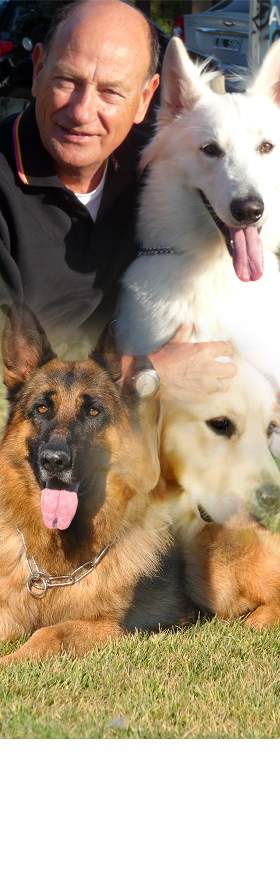
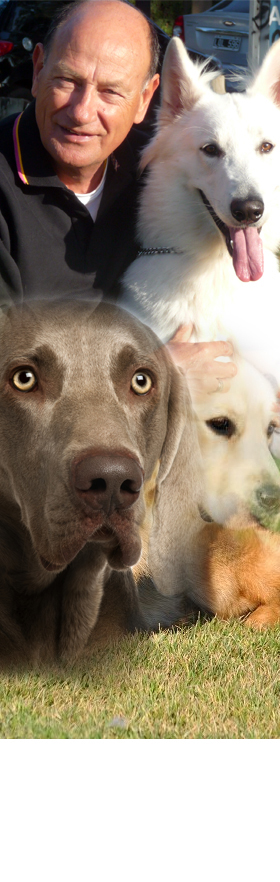
Correccion solicitadas por el cliente

Changed region(s): [[0.0, 0.3367, 0.7429, 0.7959]]

diff --git a/css/main.css b/css/main.css
@@ -1,3 +1,3 @@
 @import url("http://fonts.googleapis.com/css?family=Open+Sans");
 @import url("http://fonts.googleapis.com/css?family=Lato");
-*{border:0;margin:0;padding:0}body{font-family:'Open Sans',sans-serif;font-size:16px}figure{margin:0;padding:0}footer{background:#333;height:auto;padding:1.2em 0 1.2em 0;width:100%;}footer a:hover{text-decoration:underline}h1{margin:0;padding:0}h2{font-family:'Lato',sans-serif}header{background:#2da862;height:auto;opacity:.9;width:100%}span{margin:0 10em 0 0}.Boton{border-radius:5px;border:solid 1px #fff;font-size:.9em;-webkit-border-radius:5px;-moz-border-radius:5px;-o-border-radius:5px;-ms-border-radius:5px;margin:0 0 2em 0;padding:1em 0 1em 0;text-align:center;width:17%;}.Boton a{color:#fff;text-decoration:none}.Columnas{height:auto;margin:0 auto;margin-bottom:100px;margin-top:50px;max-width:1200px;text-align:center;width:100%;}.Columnas .Col1{display:inline-block;height:370px;margin:0 .5em 0 .5em;vertical-align:top;width:30%;}.Columnas .Col1 h2{color:#27ae60;font-size:1em;margin:0 0 1em 0}.Columnas .Col1 p{color:#505252;font-size:.9em;line-height:23px;margin:.7em 1em .7em 1em}.Columnas .Col1 a{-webkit-transition:all .5s ease;-moz-transition:all .5s ease;-o-transition:all .5s ease;transition:all .5s ease}.Columnas .Col1 a:hover{-webkit-transform:translate(0,10px);-moz-transform:translate(0,10px);-o-transform:translate(0,10px);-ms-transform:translate(0,10px);transform:translate(0,10px)}.Columnas .Col1 .Ver-mas{margin:2em 0 0 0}.Columnas .Col2{display:inline-block;height:370px;margin:0 .5em 0 .5em;vertical-align:top;width:30%;}.Columnas .Col2 a{-webkit-transition:all .5s ease;-moz-transition:all .5s ease;-o-transition:all .5s ease;transition:all .5s ease}.Columnas .Col2 a:hover{-webkit-transform:translate(0,10px);-moz-transform:translate(0,10px);-o-transform:translate(0,10px);-ms-transform:translate(0,10px);transform:translate(0,10px)}.Columnas .Col2 h2{color:#27ae60;font-size:1em;margin:0 0 2em 0}.Columnas .Col2 p{color:#505252;font-size:.9em;line-height:23px;margin:1em 1em 1em 1em}.Columnas .Col2 .Ver-mas{margin:-.4em 0 0 0}.Columnas .Col3{display:inline-block;height:370px;margin:0 .5em 0 .5em;vertical-align:top;width:30%;}.Columnas .Col3 a{-webkit-transition:all .5s ease;-moz-transition:all .5s ease;-o-transition:all .5s ease;transition:all .5s ease}.Columnas .Col3 a:hover{-webkit-transform:translate(0,10px);-moz-transform:translate(0,10px);-o-transform:translate(0,10px);-ms-transform:translate(0,10px);transform:translate(0,10px)}.Columnas .Col3 h2{color:#27ae60;font-size:1em;margin:0 0 1em 0}.Columnas .Col3 p{color:#505252;font-size:.9em;line-height:23px;margin:.7em 1em 1em 1em}.Columnas .Col3 .Ver-mas{margin:3.5em 0 0 0}a{color:#fff;text-decoration:none;}a .Contacto{border:solid 1px #008000;border-radius:5px;font-size:1.1em;-webkit-border-radius:5px;-moz-border-radius:5px;-o-border-radius:5px;-ms-border-radius:5px;height:auto;padding:1.2em 0 1.2em 0;text-align:center;-webkit-transition:all .5s ease;-moz-transition:all .5s ease;-o-transition:all .5s ease;transition:all .5s ease;width:37%;}a .Contacto ul li{display:inline-block;padding:0 .5em 0 0;vertical-align:middle}a .Contacto:hover{background:#008000;-webkit-transition:all .5s ease;-moz-transition:all .5s ease;-o-transition:all .5s ease;transition:all .5s ease}.contenedor-footer{color:#fff;height:auto;margin:0 auto;max-width:1200px;text-align:right;width:100%;}.contenedor-footer a{color:#fff;text-decoration:none}.contenedor-footer p{font-size:.8em;font-style:normal}.contenedor-perdidos{height:auto;margin:0 auto;max-width:1200px;width:100%;}.contenedor-perdidos a{border:solid 1px #333;border-radius:5px;-webkit-border-radius:5px;-moz-border-radius:5px;-o-border-radius:5px;-ms-border-radius:5px;color:#fff;padding:.5em 1em .5em 1em;text-decoration:none;-webkit-transition:all .5s ease;-moz-transition:all .5s ease;-o-transition:all .5s ease;transition:all .5s ease}.contenedor-perdidos a:hover{background:#333;-webkit-transition:all .5s ease;-moz-transition:all .5s ease;-o-transition:all .5s ease;transition:all .5s ease}.contenedor-perdidos p{margin:1em 0 1.5em 0}.contenedor-perdidos h3{color:#fff;font-size:.9em;font-weight:100;margin-top:12px}.Testimonios{height:auto;margin:0 auto;margin-bottom:50px;margin-top:50px;max-width:1200px;text-align:center;width:100%;}.Testimonios h2{color:#11d062;margin:0 0 20px 0}.Testimonios .col-test1{color:#808080;display:inline-block;font-style:italic;line-height:23px;padding:0 1.5em 0 1.5em;width:25%;}.Testimonios .col-test1 a{color:#11d062;text-decoration:none}.Testimonios .col-test2{color:#808080;display:inline-block;font-style:italic;line-height:23px;padding:0 1.5em 0 1.5em;width:25%;}.Testimonios .col-test2 a{color:#11d062;text-decoration:none}.Testimonios .col-test3{color:#808080;display:inline-block;font-style:italic;line-height:23px;padding:0 1.5em 0 1.5em;width:25%;}.Testimonios .col-test3 a{color:#11d062;text-decoration:none}.Contenido-contactos{height:auto;margin:0 auto;margin-top:2em;max-width:1200px;text-align:center;width:100%;}.Contenido-contactos h2{color:#808080;font-size:1.3em;font-style:italic;margin:1em 0 2.5em 0}.Contenido-contactos ul li{display:inline-block;list-style:none;margin:0 2em 0 2em;padding:0 0 1em 0;vertical-align:top}.Contenido-contactos a{-webkit-transition:all .5s ease;-moz-transition:all .5s ease;-o-transition:all .5s ease;transition:all .5s ease}.Contenido-contactos a:hover{opacity:.8;-webkit-transition:all .5s ease;-moz-transition:all .5s ease;-o-transition:all .5s ease;transition:all .5s ease}.Contenedor{background-image:url("../img/centro.jpg");background-repeat:no-repeat;bbackground-position:center;background-size:cover;height:634px}.Contenedor-menu{height:auto;margin:0 auto;max-width:1200px;padding:.7em 0 .7em 0;width:100%;}.Contenedor-menu ul li{display:inline-block;font-size:.9em;padding:0 0 0 .5em;vertical-align:middle;}.Contenedor-menu ul li a{color:#fff;text-decoration:none;padding:.5em .5em .5em .5em;-webkit-transition:all .5s ease;-moz-transition:all .5s ease;-o-transition:all .5s ease;transition:all .5s ease}.Contenedor-menu ul li a:hover{background:#18663c;padding:.5em .5em .5em .5em;-webkit-transition:all .5s ease;-moz-transition:all .5s ease;-o-transition:all .5s ease;transition:all .5s ease}.Contenedor-menu span{color:#fff}.Contenedor-razas{height:auto;padding:5em 0 0 0;margin:0 auto;margin-top:2.5em;max-width:1200px;width:100%}.Contenido{height:auto;margin:0 auto;margin-bottom:1em;margin-top:2em;max-width:1200px;width:100%;}.Contenido .Col1-cont1{display:inline-block;margin:1.5em 2em 0 0;vertical-align:top;width:auto}.Contenido .Col2-cont2{display:inline-block;margin:2em 0 0 0;vertical-align:top;width:65%;}.Contenido .Col2-cont2 h2{color:#27ae60;font-size:1em}.Contenido .Col2-cont2 p{color:#808080;font-size:.9em;line-height:25px;margin:.5em 0 3em 0}.Contenido .Col2-cont2 .Titulos h2{color:#27ae60;font-size:1em}.Contenido .Col2-cont2 .Titulos ul li{display:inline-block;list-style:none;padding:0 .5em 0 0}.Contenido .VerMas-hojas{margin:-1.9em 0 5em 0;}.Contenido .VerMas-hojas a{text-decoration:none}.Contenido .VerMas-hojas a:hover{opacity:.8}.Contenido .Texto-corto p{margin:.5em 0 1em 0}.Contenido .Cartel-modificado{margin:0 0 5em 0}.Forma{margin:184px 0 0 0;text-align:center}.Generadores{margin:0 auto;margin-top:3em;max-width:1100px;text-align:center;width:100%;}.Generadores h2{color:#808080;font-style:italic;margin:2.5em 0 1.5em 0}.Generadores h3{color:#808080;font-size:.9em;font-style:italic;margin:1em 0 0 0}.Generadores ul li{display:inline-block;list-style:none;vertical-align:top;width:30%;}.Generadores ul li img{border-radius:100%;height:auto;overflow:hidden;max-width:150px;width:100%}.Generadores img:hover{opacity:.7}.Logo{margin:200px 0 0 20px;width:50%;}.Logo img:hover{opacity:.7}.Logo h2{color:#fff;font-weight:100;text-align:left;margin:-.5em 0 .5em .5em}.Logo ul li{display:inline-block;list-style:none;margin:0 0 0 .7em}.Logo-interno{border-bottom:solid 1px #bebfc1;height:auto;margin:0 auto;margin-top:2em;max-width:1200px;padding-bottom:.5em;width:100%}.Todas-lasRazas{height:auto;margin:0 auto;margin-top:4em;max-width:1100px;overflow:hidden;width:100%;}.Todas-lasRazas a{background:#008000;border-radius:3px;color:#fff;font-size:.9em;padding:0 .5em 0 .5em}.Todas-lasRazas a:hover{opacity:.9}.Todas-lasRazas h2{margin:0 0 1em 0}.Todas-lasRazas h3{color:#008000;margin:0 0 .3em 0}.Todas-lasRazas img{height:auto;border-radius:100%;-webkit-border-radius:100%;-moz-border-radius:100%;-o-border-radius:100%;-ms-border-radius:100%;float:left;margin:0 1em 0 1em}.Todas-lasRazas p{font-size:.9em;text-align:justify;line-height:26px;margin:0 0 .5em 0}.Quien-soy{height:auto;margin:0 auto;max-width:1200px;text-align:center;width:100%;}.Quien-soy h2{color:#808080;font-style:italic;margin:0 0 .5em 0}.Quien-soy img{margin:1.5em 0 0 0}.Quien-soy ul li{display:inline-block;list-style:none;margin:.5em 0 .5em 0;padding:0 .5em 0 .5em}.Quien-soy p{color:#808080;font-style:italic;line-height:28px;padding:0 1.5em 0 1.5em}.Perdidos{background-image:url("../img/perdidos.jpg");background-repeat:no-repeat;bbackground-position:center;background-size:cover;height:180px;margin:-70px 0 0 0;}.Perdidos h3{margin:1.5em 0 0 0}.Perdidos p{color:#fff;padding:2em 0 0 0}.Razas{background-image:url("../img/razas.jpg");background-repeat:no-repeat;bbackground-position:center;background-size:cover;height:372px;margin:0 0 70px 0;}.Razas h2{color:#fff;font-size:2em;font-weight:100;padding:2em 0 .5em 0}.Redes-perfil ul li a{text-decoration:none}.Redes-perfil ul li a:hover{opacity:.6}.Contenedor-delasRazas{height:auto;margin:0 0 5em 0}.Seccion{background:#d3dbd7;color:#008000;font-size:.9em;margin:0 auto;margin-top:.1em;max-width:1195px;padding:.3em 0 .3em .3em;width:auto}
+*{border:0;margin:0;padding:0}body{font-family:'Open Sans',sans-serif;font-size:16px}figure{margin:0;padding:0}footer{background:#333;height:auto;padding:1.2em 0 1.2em 0;width:100%;}footer a:hover{text-decoration:underline}h1{margin:0;padding:0}h2{font-family:'Lato',sans-serif}header{background:#2da862;height:auto;opacity:.9;width:100%}span{margin:0 10em 0 0}.Boton{border-radius:5px;border:solid 1px #fff;font-size:.9em;-webkit-border-radius:5px;-moz-border-radius:5px;-o-border-radius:5px;-ms-border-radius:5px;margin:0 0 2em 0;padding:1em 0 1em 0;text-align:center;width:17%;}.Boton a{color:#fff;text-decoration:none}.Columnas{height:auto;margin:0 auto;margin-bottom:100px;margin-top:50px;max-width:1200px;text-align:center;width:100%;}.Columnas .Col1{display:inline-block;height:370px;margin:0 .5em 0 .5em;vertical-align:top;width:30%;}.Columnas .Col1 h2{color:#27ae60;font-size:1em;margin:0 0 1em 0}.Columnas .Col1 p{color:#505252;font-size:.9em;line-height:23px;margin:.7em 1em .7em 1em}.Columnas .Col1 a{-webkit-transition:all .5s ease;-moz-transition:all .5s ease;-o-transition:all .5s ease;transition:all .5s ease}.Columnas .Col1 a:hover{-webkit-transform:translate(0,10px);-moz-transform:translate(0,10px);-o-transform:translate(0,10px);-ms-transform:translate(0,10px);transform:translate(0,10px)}.Columnas .Col1 .Ver-mas{margin:2em 0 0 0}.Columnas .Col2{display:inline-block;height:370px;margin:0 .5em 0 .5em;vertical-align:top;width:30%;}.Columnas .Col2 a{-webkit-transition:all .5s ease;-moz-transition:all .5s ease;-o-transition:all .5s ease;transition:all .5s ease}.Columnas .Col2 a:hover{-webkit-transform:translate(0,10px);-moz-transform:translate(0,10px);-o-transform:translate(0,10px);-ms-transform:translate(0,10px);transform:translate(0,10px)}.Columnas .Col2 h2{color:#27ae60;font-size:1em;margin:0 0 2em 0}.Columnas .Col2 p{color:#505252;font-size:.9em;line-height:23px;margin:1em 1em 1em 1em}.Columnas .Col2 .Ver-mas{margin:-.4em 0 0 0}.Columnas .Col3{display:inline-block;height:370px;margin:0 .5em 0 .5em;vertical-align:top;width:30%;}.Columnas .Col3 a{-webkit-transition:all .5s ease;-moz-transition:all .5s ease;-o-transition:all .5s ease;transition:all .5s ease}.Columnas .Col3 a:hover{-webkit-transform:translate(0,10px);-moz-transform:translate(0,10px);-o-transform:translate(0,10px);-ms-transform:translate(0,10px);transform:translate(0,10px)}.Columnas .Col3 h2{color:#27ae60;font-size:1em;margin:0 0 1em 0}.Columnas .Col3 p{color:#505252;font-size:.9em;line-height:23px;margin:.7em 1em 1em 1em}.Columnas .Col3 .Ver-mas{margin:3.5em 0 0 0}a{color:#fff;text-decoration:none;}a .Contacto{border:solid 1px #008000;border-radius:5px;font-size:1.1em;-webkit-border-radius:5px;-moz-border-radius:5px;-o-border-radius:5px;-ms-border-radius:5px;height:auto;padding:1.2em 0 1.2em 0;text-align:center;-webkit-transition:all .5s ease;-moz-transition:all .5s ease;-o-transition:all .5s ease;transition:all .5s ease;width:37%;}a .Contacto ul li{display:inline-block;padding:0 .5em 0 0;vertical-align:middle}a .Contacto:hover{background:#008000;-webkit-transition:all .5s ease;-moz-transition:all .5s ease;-o-transition:all .5s ease;transition:all .5s ease}.contenedor-footer{color:#fff;height:auto;margin:0 auto;max-width:1200px;text-align:right;width:100%;}.contenedor-footer a{color:#fff;text-decoration:none}.contenedor-footer p{font-size:.8em;font-style:normal}.contenedor-perdidos{height:auto;margin:0 auto;margin-top:7em;max-width:1200px;width:100%;}.contenedor-perdidos a{border:solid 1px #333;border-radius:5px;-webkit-border-radius:5px;-moz-border-radius:5px;-o-border-radius:5px;-ms-border-radius:5px;color:#fff;padding:.5em 1em .5em 1em;text-decoration:none;-webkit-transition:all .5s ease;-moz-transition:all .5s ease;-o-transition:all .5s ease;transition:all .5s ease}.contenedor-perdidos a:hover{background:#333;-webkit-transition:all .5s ease;-moz-transition:all .5s ease;-o-transition:all .5s ease;transition:all .5s ease}.contenedor-perdidos p{margin:1em 0 1.5em 0}.contenedor-perdidos h3{color:#fff;font-size:.9em;font-weight:100;margin-top:12px}.Testimonios{height:auto;margin:0 auto;margin-bottom:50px;margin-top:50px;max-width:1200px;text-align:center;width:100%;}.Testimonios h2{color:#11d062;margin:0 0 20px 0}.Testimonios .col-test1{color:#808080;display:inline-block;font-style:italic;line-height:23px;padding:0 1.5em 0 1.5em;width:25%;}.Testimonios .col-test1 a{color:#11d062;text-decoration:none}.Testimonios .col-test2{color:#808080;display:inline-block;font-style:italic;line-height:23px;padding:0 1.5em 0 1.5em;width:25%;}.Testimonios .col-test2 a{color:#11d062;text-decoration:none}.Testimonios .col-test3{color:#808080;display:inline-block;font-style:italic;line-height:23px;padding:0 1.5em 0 1.5em;width:25%;}.Testimonios .col-test3 a{color:#11d062;text-decoration:none}.Contenido-contactos{height:auto;margin:0 auto;margin-top:2em;max-width:1200px;text-align:center;width:100%;}.Contenido-contactos h2{color:#808080;font-size:1.3em;font-style:italic;margin:1em 0 2.5em 0}.Contenido-contactos ul li{display:inline-block;list-style:none;margin:0 2em 0 2em;padding:0 0 1em 0;vertical-align:top}.Contenido-contactos a{-webkit-transition:all .5s ease;-moz-transition:all .5s ease;-o-transition:all .5s ease;transition:all .5s ease}.Contenido-contactos a:hover{opacity:.8;-webkit-transition:all .5s ease;-moz-transition:all .5s ease;-o-transition:all .5s ease;transition:all .5s ease}.Contenedor{background-image:url("../img/centro.jpg");background-repeat:no-repeat;bbackground-position:center;background-size:cover;height:634px}.Contenedor-menu{height:auto;margin:0 auto;max-width:1200px;padding:.7em 0 .7em 0;width:100%;}.Contenedor-menu ul li{display:inline-block;font-size:.9em;padding:0 0 0 .5em;vertical-align:middle;}.Contenedor-menu ul li a{color:#fff;text-decoration:none;padding:.5em .5em .5em .5em;-webkit-transition:all .5s ease;-moz-transition:all .5s ease;-o-transition:all .5s ease;transition:all .5s ease}.Contenedor-menu ul li a:hover{background:#18663c;padding:.5em .5em .5em .5em;-webkit-transition:all .5s ease;-moz-transition:all .5s ease;-o-transition:all .5s ease;transition:all .5s ease}.Contenedor-menu span{color:#fff}.Contenedor-razas{height:auto;padding:5em 0 0 0;margin:0 auto;margin-top:2.5em;max-width:1200px;width:100%}.Contenido{height:auto;margin:0 auto;margin-bottom:1em;margin-top:2em;max-width:1200px;width:100%;}.Contenido .Col1-cont1{display:inline-block;margin:1.5em 2em 0 0;vertical-align:top;width:auto}.Contenido .Col2-cont2{display:inline-block;margin:2em 0 0 0;vertical-align:top;width:65%;}.Contenido .Col2-cont2 h2{color:#27ae60;font-size:1em}.Contenido .Col2-cont2 p{color:#808080;font-size:.9em;line-height:25px;margin:.5em 0 3em 0}.Contenido .Col2-cont2 .Titulos h2{color:#27ae60;font-size:1em}.Contenido .Col2-cont2 .Titulos ul li{display:inline-block;list-style:none;padding:0 .5em 0 0}.Contenido .VerMas-hojas{margin:-1.9em 0 5em 0;}.Contenido .VerMas-hojas a{text-decoration:none}.Contenido .VerMas-hojas a:hover{opacity:.8}.Contenido .Texto-corto p{margin:.5em 0 1em 0}.Contenido .Cartel-modificado{margin:0 0 5em 0}.Forma{margin:184px 0 0 0;text-align:center}.Generadores{margin:0 auto;margin-top:5em;max-width:1300px;text-align:center;width:100%;}.Generadores h2{color:#808080;font-style:italic;margin:2.5em 0 2em 0}.Generadores h3{color:#808080;font-size:.9em;font-style:italic;margin:1em 0 0 0}.Generadores ul li{display:inline-block;list-style:none;vertical-align:top;width:19%;}.Generadores ul li img{border-radius:100%;height:auto;overflow:hidden;max-width:150px;width:100%}.Generadores img:hover{opacity:.7}.Logo{margin:200px 0 0 20px;width:50%;}.Logo img:hover{opacity:.7}.Logo h2{color:#fff;font-weight:100;text-align:left;margin:-.5em 0 .5em .5em}.Logo ul li{display:inline-block;list-style:none;margin:0 0 0 .7em}.Logo-interno{border-bottom:solid 1px #bebfc1;height:auto;margin:0 auto;margin-top:2em;max-width:1200px;padding-bottom:.5em;width:100%}.Todas-lasRazas{height:auto;margin:0 auto;margin-top:4em;max-width:1100px;overflow:hidden;width:100%;}.Todas-lasRazas a{background:#008000;border-radius:3px;color:#fff;font-size:.9em;padding:0 .5em 0 .5em}.Todas-lasRazas a:hover{opacity:.9}.Todas-lasRazas h2{margin:0 0 1em 0}.Todas-lasRazas h3{color:#008000;margin:0 0 .3em 0}.Todas-lasRazas img{height:auto;border-radius:100%;-webkit-border-radius:100%;-moz-border-radius:100%;-o-border-radius:100%;-ms-border-radius:100%;float:left;margin:0 1em 0 1em}.Todas-lasRazas p{font-size:.9em;text-align:justify;line-height:26px;margin:0 0 .5em 0}.Quien-soy{height:auto;margin:0 auto;max-width:1200px;text-align:center;width:100%;}.Quien-soy h2{color:#808080;font-style:italic;margin:0 0 .5em 0}.Quien-soy img{margin:1.5em 0 0 0}.Quien-soy ul li{display:inline-block;list-style:none;margin:.5em 0 .5em 0;padding:0 .5em 0 .5em}.Quien-soy p{color:#808080;font-style:italic;line-height:28px;padding:0 1.5em 0 1.5em}.Perdidos{background-image:url("../img/perdidos.jpg");background-repeat:no-repeat;bbackground-position:center;background-size:cover;height:180px;margin:-70px 0 0 0;}.Perdidos h3{margin:1.5em 0 0 0}.Perdidos p{color:#fff;padding:2em 0 0 0}.Razas{background-image:url("../img/razas.jpg");background-repeat:no-repeat;bbackground-position:center;background-size:cover;height:372px;margin:0 0 70px 0;}.Razas h2{color:#fff;font-size:2em;font-weight:100;padding:2em 0 .5em 0}.Redes-perfil ul li a{text-decoration:none}.Redes-perfil ul li a:hover{opacity:.6}.Contenedor-delasRazas{height:auto;margin:0 0 5em 0}.Seccion{background:#d3dbd7;color:#008000;font-size:.9em;margin:0 auto;margin-top:.1em;max-width:1195px;padding:.3em 0 .3em .3em;width:auto}@media screen and (min-width:0) and (max-width:319px){*{margin:0;padding:0}body{background:#f00;margin:0 auto;width:97%}.Columnas{background:#008000;height:auto;margin-top:8em;}.Columnas .Col1{background:#00f;height:auto;margin:0;padding:0;width:100%}.Columnas .Col2{background:#00f;height:auto;margin:0;margin-top:3em;padding:0;width:100%}.Columnas .Col3{background:#00f;height:auto;margin:0;margin-top:3em;padding:0;width:100%}.Forma{display:none}.Quien-soy{background:#00f;margin-top:-4em;margin:0;padding:0;width:95%}.Generadores{background:#00f;margin-top:-2em;width:95%;}.Generadores ul li{background:#008000;float:none;display:block;margin-bottom:4em;margin-top:-1em;width:100%}.Perdidos{background:#00f;text-align:center;margin:-5em 0 1em 0}footer .contenedor-footer{text-align:center;width:80%}.Logo{margin:0;margin-top:1.5em;text-align:center;width:100%;}.Logo img{height:auto;width:100%}.Contenedor{background-image:none;background-repeat:no-repeat;bbackground-position:center;background-size:cover;margin:0;padding:0;height:250px}.Contenedor-menu{background:#fa8072;text-align:center;}.Contenedor-menu ul li{width:90%}}@media screen and (min-width:320px) and (max-width:479px){body{background:#00f;margin:0 auto;width:97%}.Columnas{background:#008000;height:auto;margin-top:8em;}.Columnas .Col1{background:#00f;height:auto;margin:0;padding:0;width:100%}.Columnas .Col2{background:#00f;height:auto;margin:0;margin-top:3em;padding:0;width:100%}.Columnas .Col3{background:#00f;height:auto;margin:0;margin-top:3em;padding:0;width:100%}.Forma{display:none}.Quien-soy{background:#00f;margin-top:-4em;width:95%}.Generadores{background:#00f;margin-top:-2em;width:95%;}.Generadores ul li{background:#008000;float:none;display:block;margin-bottom:4em;margin-top:-1em;width:100%}.Perdidos{background:#00f;text-align:center;margin:-5em 0 1em 0}footer .contenedor-footer{text-align:center;width:80%}.Logo{margin:0;margin-top:1.5em;text-align:center;width:100%;}.Logo img{height:auto;width:100%}.Contenedor{background-image:none;background-repeat:no-repeat;bbackground-position:center;background-size:cover;height:250px}.Contenedor-menu{background:#fa8072;text-align:center;}.Contenedor-menu ul li{width:90%}}@media screen and (min-width:480px) and (max-width:759px){body{background:#008000}}@media screen and (min-width:760px) and (max-width:1019px){body{background:#ffa500}}@media screen and (min-width:1019px) and (max-width:1300px){body{background:#fa8072}}

diff --git a/includes/generados.php b/includes/generados.php
@@ -3,21 +3,35 @@
 	<ul>
 		<li>
 			<a href="#">
-				<img src="img/generadores/influencia.jpg" width="150" height="150" alt="Perros con poder">
+				<img src="img/generadores/influencia5.jpg" width="150" height="150" alt="Perros con poder">
 			</a>
-			<h3>Influencia Positiva de los perros</h3>
+			<h3>Adiestramiento UP</h3>
 		</li>
 		<li>
 			<a href="#">
-				<img src="img/generadores/influencia2.jpg" width="150" height="150" alt="Perros con influencia">
+				<img src="img/generadores/influencia4.jpg" width="150" height="150" alt="Perros con influencia">
 			</a>
-			<h3>Perros generadores de Emociones</h3>
+			<h3>Conociendo al Weimaraner</h3>
 		</li>
+		<li>
+			<a href="#">
+				<img src="img/generadores/influencia2.jpg" width="150" height="150" alt="Generadores de emociones">
+			</a>
+			<h3>Perros con poder</h3>
+		</li>
+
+		<li>
+			<a href="#">
+				<img src="img/generadores/influencia.jpg" width="150" height="150" alt="Generadores de emociones">
+			</a>
+			<h3>Influencia positiva de los perros</h3>
+		</li>
+
 		<li>
 			<a href="#">
 				<img src="img/generadores/influencia3.jpg" width="150" height="150" alt="Generadores de emociones">
 			</a>
-			<h3>Perros con Poder</h3>
+			<h3>Perros generadores de emociones</h3>
 		</li>
 	</ul>
 </section> <!-- End of Generadores -->

diff --git a/index.php b/index.php
@@ -95,7 +95,6 @@
 				eficaz y perdurable en el tiempo.
 			</p>
 		</article>
-			<img src="img/perfil-pedro.jpg" alt="Pedro Monges">
 		<section class="Redes-perfil">
 			<ul>
 				<li><a href="#"><img src="img/facebook.jpg" alt="Facebook"></a></li>
@@ -107,10 +106,12 @@
 
 	<?php include("includes/generados.php"); ?>
 
-	<?php include("includes/razas.php"); ?>
-
 	<?php include("includes/perdidos.php"); ?>
 
 	<?php include("includes/footer.php"); ?>
+
+	<script>document.write('<script src="http://' + (location.host || 'localhost').split(':')[0] + ':35729/livereload.js?snipver=1"></' + 'script>')</script>
+
+	
 </body>
 </html>

diff --git a/razas.php b/razas.php
@@ -64,6 +64,10 @@
 	<?php include("includes/perdidos.php"); ?>
 
 	<?php include("includes/footer.php"); ?>
+
+	<script>document.write('<script src="http://' + (location.host || 'localhost').split(':')[0] + ':35729/livereload.js?snipver=1"></' + 'script>')</script>
+
+	
 	
 </body>
 </html>

diff --git a/adiestramiento.php b/adiestramiento.php
@@ -261,6 +261,8 @@
 	<?php include("includes/perdidos.php"); ?>
 
 	<?php include("includes/footer.php"); ?>
+
+	<script>document.write('<script src="http://' + (location.host || 'localhost').split(':')[0] + ':35729/livereload.js?snipver=1"></' + 'script>')</script>
 	
 </body>
 </html>

diff --git a/cachorros.php b/cachorros.php
@@ -410,6 +410,8 @@
 	<?php include("includes/perdidos.php"); ?>
 
 	<?php include("includes/footer.php"); ?>
+
+	<script>document.write('<script src="http://' + (location.host || 'localhost').split(':')[0] + ':35729/livereload.js?snipver=1"></' + 'script>')</script>
 	
 </body>
 </html>

diff --git a/contacto.php b/contacto.php
@@ -18,6 +18,8 @@
 	<?php include("includes/perdidos.php"); ?>
 
 	<?php include("includes/footer.php"); ?>
+
+	<script>document.write('<script src="http://' + (location.host || 'localhost').split(':')[0] + ':35729/livereload.js?snipver=1"></' + 'script>')</script>
 	
 </body>
 </html>
